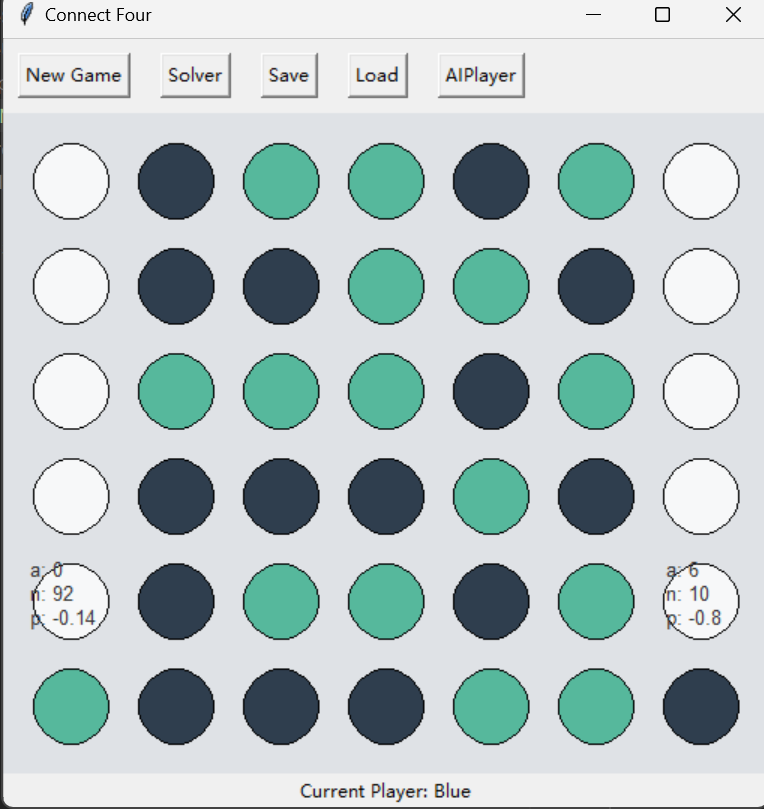
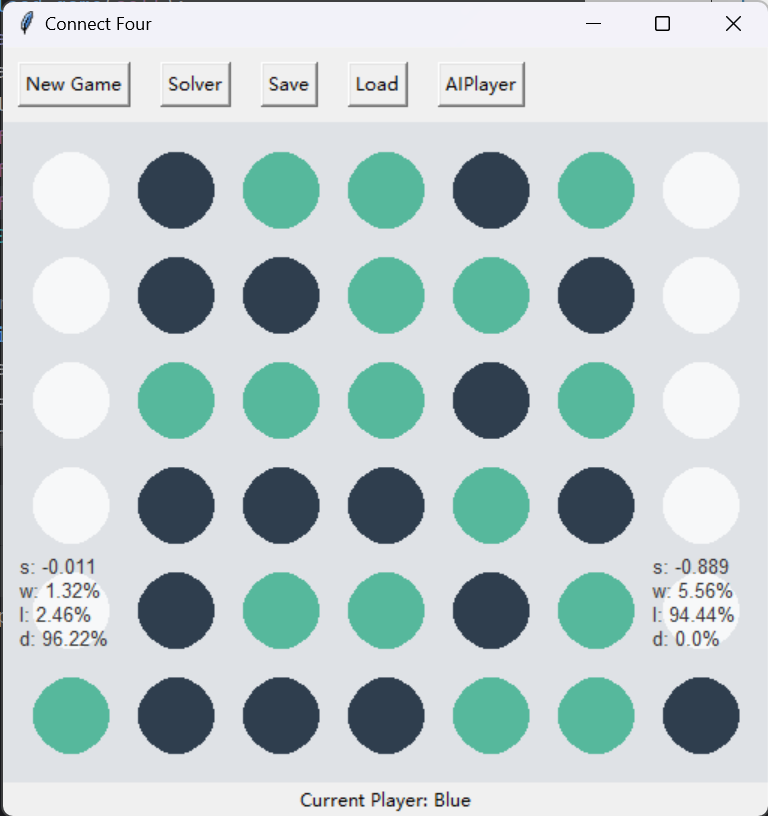
Use a new picture in readme

diff --git a/README.md b/README.md
@@ -8,13 +8,13 @@ This document will introduce the project in two sections.
 
 There are five actions total:
 1. New Game: Clean the board and start a new game. Blue always play first.
-2. Solver: MCTS algorithm will give an estimation of all actions in [0,6], including **n** for visited times and **p** for average score.
-![img.png](figures/img.png)
+2. Solver: MCTS algorithm will give an estimation of all actions in [0,6], including **s** for average reward, **w** for rate of win, **l** for rate of lose and **d** for rate of draw.
 3. Save: Save the current board.
 4. Load: Load the last saved board.
 5. AIPlayer: Play with our AI! It will start play whenever you click the button.
 
-**NOTE**: Can only save one game! We have a default game saved.
+**NOTE**: Can only save one game! We have a default game saved. Just click **Load** and **Solver** to see the result:
+![SavedGame](figures/img.png)
 
 # Project structure
 ConnectFour.py is the class represents a connect four game.
